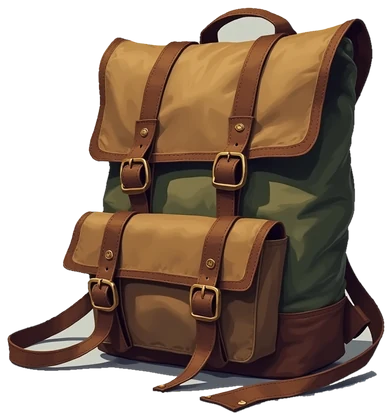
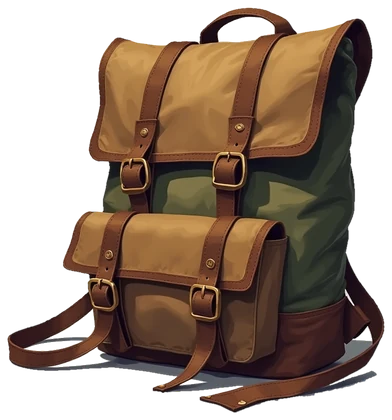
feat(depth-v2): diegetic placement for discovery props; fix pack cutout
Placement only - props, copy, timing, accumulation 0->N, reverse N->0 and
the group exit are unchanged.

- Village: notice on the fence, pack by the cart, field book on the
  grass, sealed letter dropped on the road.
- Forest: night growth left on the grass, strange bark right by the
  tree, fresh track on the path itself.
- Mine: ore sample left of the cart, pickaxe on the floor by the rails,
  the haul right of the cart, rare crystal right among the stones.
- Spirit Core (placed by what each prop actually looks like): the helmet
  (awakened-relic) on the pier, the ghost footprints (spirit-trace) on
  the water leading to the ship, the carved shard on top of the stele.
- Home: chest by the far fence, workshop kit by the house, seed pouch by
  the path, trophy hanging on the tree.
- Cluster underlays dropped: props are spread through the scene now, so
  a single patch under a group no longer has anything to ground.
- adventurer-pack: background left between the straps is removed
  (interior background regions the edge flood could not reach).

diff --git a/depth-v2/poc-discoveries.js b/depth-v2/poc-discoveries.js
@@ -46,20 +46,19 @@ export const BIOMES = {
   // деревня — физические следы живого мира; текст слева внизу, находки справа,
   // в небе над крышами и на траве, дорога и дома открыты
   village: {
-    k: 0, stretch: [3.2, 1.5], exit: 0.84, zone: [0.5, 0.985],
-    under: { x: 0.75, y: 0.945, w: 0.3, h: 0.15, rot: -2, tone: '18, 12, 5', op: 0.75 },
-    keep: [[0.3, 0.6, 0.55, 1]],
+    k: 0, stretch: [3.2, 1.5], exit: 0.84, zone: [0.28, 0.985],
+    keep: [[0.36, 0.22, 0.72, 0.58]],
     items: [
-      { id: 'sealed-letter', at: 0.30, x: 0.742, y: 0.925, h: 0.055, rot: -4, cap: 'left', z: 4,
+      { id: 'sealed-letter', at: 0.30, x: 0.415, y: 0.915, h: 0.058, rot: -4, cap: 'right', z: 4,
         en: ['Sealed letter', 'Messages move through the world without you.'],
         ru: ['Письмо', 'Сообщения идут по миру и без тебя.'] },
       { id: 'notice', at: 0.42, x: 0.845, y: 0.735, h: 0.115, rot: 1.5, cap: 'right', z: 1,
         en: ['Notice', 'Work appears whether a player is there to take it or not.'],
         ru: ['Объявление', 'Дела появляются независимо от того, рядом ли игрок.'] },
-      { id: 'adventurer-pack', at: 0.54, x: 0.722, y: 0.845, h: 0.155, rot: -1, cap: 'left', z: 2,
+      { id: 'adventurer-pack', at: 0.54, x: 0.62, y: 0.845, h: 0.14, rot: -1, cap: 'left', z: 2,
         en: ["Adventurer's pack", 'Others leave town, return with loot, and spend it.'],
         ru: ['Ранец авантюриста', 'Другие уходят за добычей, возвращаются и тратят её.'] },
-      { id: 'field-book', at: 0.66, x: 0.767, y: 0.9, h: 0.082, rot: 2, cap: 'right', z: 3,
+      { id: 'field-book', at: 0.66, x: 0.79, y: 0.9, h: 0.082, rot: 2, cap: 'left', z: 3,
         en: ['Field book', 'Knowledge is something you can carry.'],
         ru: ['Полевая книга', 'Знание здесь можно буквально носить с собой.'] },
     ],
@@ -67,36 +66,34 @@ export const BIOMES = {
   // лес — природные образцы и странности, не добыча; текст справа, находки
   // слева и снизу слева, центральная тропа открыта
   forest: {
-    k: 1, stretch: [2.8, 1.45], exit: 0.9, zone: [0.015, 0.45],
-    under: { x: 0.175, y: 0.955, w: 0.3, h: 0.15, rot: 2, tone: '6, 10, 6', op: 0.8 },
-    keep: [[0.4, 0.45, 0.62, 1]],
+    k: 1, stretch: [2.8, 1.45], exit: 0.9, zone: [0.015, 0.985],
+    keep: [[0.42, 0.1, 0.6, 0.45]],
     items: [
-      { id: 'strange-bark', at: 0.20, x: 0.115, y: 0.9, h: 0.1, rot: -2, cap: 'left', z: 1,
+      { id: 'strange-bark', at: 0.20, x: 0.74, y: 0.9, h: 0.095, rot: -2, cap: 'left', z: 2,
         en: ['Strange bark', 'Not every place worth finding is marked on a map.'],
         ru: ['Странная кора', 'Не каждое важное место отмечено на карте.'] },
-      { id: 'fresh-track', at: 0.38, x: 0.235, y: 0.925, h: 0.09, rot: 1, cap: 'right', z: 3,
+      { id: 'fresh-track', at: 0.38, x: 0.47, y: 0.94, h: 0.08, rot: 1, cap: 'right', z: 3,
         en: ['Fresh track', 'The farther from safety, the less predictable the wilds.'],
         ru: ['Свежий след', 'Чем дальше от безопасности, тем непредсказуемее дикая местность.'] },
-      { id: 'night-growth', at: 0.56, x: 0.155, y: 0.845, h: 0.155, rot: -1.5, cap: 'right', z: 2,
+      { id: 'night-growth', at: 0.56, x: 0.12, y: 0.86, h: 0.14, rot: -1.5, cap: 'right', z: 1,
         en: ['Night growth', 'Some things are easier to find after dark.'],
         ru: ['Ночная поросль', 'Некоторые вещи легче найти после наступления темноты.'] },
     ],
   },
   mine: {
-    k: 2, stretch: [3, 1.6], exit: 0.9, zone: [0.58, 0.955],
-    under: { x: 0.826, y: 0.888, w: 0.32, h: 0.16, rot: 0, tone: '20, 13, 6', op: 0.72 },
-    keep: [[0.46, 0.15, 0.715, 0.76], [0.52, 0.62, 0.68, 0.98]],
+    k: 2, stretch: [3, 1.6], exit: 0.9, zone: [0.3, 0.985],
+    keep: [[0.46, 0.15, 0.715, 0.6]],
     items: [
-      { id: 'ore-sample', at: 0.10, x: 0.748, y: 0.855, h: 0.11, rot: -2, cap: 'left', z: 3,
+      { id: 'ore-sample', at: 0.10, x: 0.465, y: 0.865, h: 0.1, rot: -2, cap: 'left', z: 1,
         en: ['Ore sample', 'Depth changes what the rock gives back.'],
         ru: ['Образец руды', 'С глубиной меняется то, что отдаёт порода.'] },
-      { id: 'mining-pickaxe', at: 0.26, x: 0.862, y: 0.7, h: 0.155, rot: 1.5, cap: 'right', z: 1,
+      { id: 'mining-pickaxe', at: 0.26, x: 0.625, y: 0.93, h: 0.105, rot: 1.5, cap: 'right', z: 2,
         en: ['Mining Pick', 'The right tool decides what you can bring back.'],
         ru: ['Кирка', 'От инструмента зависит, что ты сможешь унести наверх.'] },
-      { id: 'ore-cargo', at: 0.43, x: 0.818, y: 0.79, h: 0.185, rot: -1, cap: 'right', z: 2,
+      { id: 'ore-cargo', at: 0.43, x: 0.72, y: 0.86, h: 0.15, rot: -1, cap: 'right', z: 3,
         en: ['The haul', 'What you extract feeds crafting and trade.'],
         ru: ['Добыча', 'То, что вынесешь наверх, идёт в ремесло и торговлю.'] },
-      { id: 'deep-material', at: 0.60, x: 0.872, y: 0.868, h: 0.092, rot: 2, cap: 'right', z: 4,
+      { id: 'deep-material', at: 0.60, x: 0.865, y: 0.9, h: 0.088, rot: 2, cap: 'left', z: 4,
         en: ['Rare Crystal', 'Richer materials wait where the risk is higher.'],
         ru: ['Редкий кристалл', 'Чем ценнее находка, тем опаснее путь к ней.'] },
     ],
@@ -104,18 +101,17 @@ export const BIOMES = {
   // ядро мира мёртвых — не добыча, а свидетельства другого слоя; текст справа
   // внизу, находки по левому краю; корабль, след на воде, пирс и стела открыты
   core: {
-    k: 4, stretch: [2.5, 1.45], exit: 0.9, zone: [0.015, 0.45],
-    under: { x: 0.182, y: 0.965, w: 0.27, h: 0.1, rot: -2, tone: '5, 20, 24', op: 0.45 },
+    k: 4, stretch: [2.5, 1.45], exit: 0.9, zone: [0.015, 0.985],
     props: 'saturate(.72) brightness(.86)',
-    keep: [[0.42, 0.3, 0.82, 0.56], [0.44, 0.5, 0.8, 1]],
+    keep: [[0.39, 0.4, 0.7, 0.555]],
     items: [
-      { id: 'spirit-trace', at: 0.18, x: 0.112, y: 0.862, h: 0.105, rot: -1, cap: 'right', spectral: true, z: 1,
+      { id: 'spirit-trace', at: 0.18, x: 0.5, y: 0.655, h: 0.1, rot: -1, cap: 'right', spectral: true, z: 1,
         en: ['Spirit trace', 'The dead see paths the living leave behind.'],
         ru: ['След духа', 'Мёртвые видят пути, оставленные живыми.'] },
-      { id: 'awakened-relic', at: 0.36, x: 0.155, y: 0.925, h: 0.115, rot: 1.5, cap: 'right', z: 2,
+      { id: 'awakened-relic', at: 0.36, x: 0.78, y: 0.88, h: 0.1, rot: 1.5, cap: 'left', z: 2,
         en: ['Awakened relic', 'Some things reveal what they are only after death.'],
         ru: ['Пробуждённая реликвия', 'Некоторые вещи раскрывают себя только после смерти.'] },
-      { id: 'spiral-shard', at: 0.54, x: 0.228, y: 0.932, h: 0.095, rot: -2, cap: 'right', z: 3,
+      { id: 'spiral-shard', at: 0.54, x: 0.412, y: 0.6, h: 0.07, rot: -2, cap: 'right', z: 3,
         en: ['Spiral shard', 'The same world reveals another layer.'],
         ru: ['Осколок спирали', 'Тот же мир открывает другой слой.'] },
     ],
@@ -123,20 +119,19 @@ export const BIOMES = {
   // дом — то, что остаётся; тихо по краям, дом и окна — главный финал;
   // коллекция остаётся до конца маршрута
   home: {
-    k: 5, stretch: [2, 2], exit: null, zone: [0.55, 0.96],
-    under: { x: 0.822, y: 0.882, w: 0.28, h: 0.15, rot: 2, tone: '8, 9, 7', op: 0.7 },
-    keep: [[0.4, 0.15, 0.78, 0.6], [0.42, 0.62, 0.62, 1]],
+    k: 5, stretch: [2, 2], exit: null, zone: [0.02, 0.985],
+    keep: [[0.5, 0.25, 0.75, 0.55]],
     items: [
-      { id: 'storage-chest', at: 0.15, x: 0.828, y: 0.79, h: 0.125, rot: -1.5, cap: 'left', z: 2,
+      { id: 'storage-chest', at: 0.15, x: 0.335, y: 0.655, h: 0.085, rot: -1.5, cap: 'right', z: 1,
         en: ['Storage', 'What you bring home stays yours.'],
         ru: ['Хранилище', 'То, что ты принёс домой, остаётся твоим.'] },
-      { id: 'workshop-kit', at: 0.3, x: 0.762, y: 0.845, h: 0.1, rot: 1, cap: 'left', z: 3,
+      { id: 'workshop-kit', at: 0.3, x: 0.665, y: 0.68, h: 0.09, rot: 1, cap: 'right', z: 2,
         en: ['Workshop', 'Craft without leaving your own space.'],
         ru: ['Мастерская', 'Создавай вещи, не покидая своего пространства.'] },
-      { id: 'trophy', at: 0.45, x: 0.862, y: 0.68, h: 0.105, rot: -1, cap: 'right', z: 1,
+      { id: 'trophy', at: 0.45, x: 0.125, y: 0.42, h: 0.1, rot: -1, cap: 'right', z: 4,
         en: ['Trophy', 'Bring pieces of your journey back with you.'],
         ru: ['Трофей', 'Возвращайся домой с памятью о пройденном пути.'] },
-      { id: 'seed-pouch', at: 0.6, x: 0.885, y: 0.872, h: 0.075, rot: 2, cap: 'right', z: 4,
+      { id: 'seed-pouch', at: 0.6, x: 0.53, y: 0.9, h: 0.07, rot: 2, cap: 'right', z: 3,
         en: ['Grow', 'Your home can produce more than storage.'],
         ru: ['Выращивай', 'Дом — это больше, чем просто склад.'] },
     ],
@@ -195,11 +190,13 @@ export function mountDiscoveries(parent, { only = null, stretch = null } = {}) {
   const biomes = Object.entries(BIOMES).filter(([name, b]) => (!only || only.includes(name)) && b.items.length);
 
   const finds = [];
+  const groups = [];
   const unders = [];
   const stretchBy = {};
   for (const [name, b] of biomes) {
     const s = name === 'mine' && Number(stretch) > 0 ? [Number(stretch), b.stretch[1]] : b.stretch;
     stretchBy[b.k] = s;
+    groups.push(b);
     if (b.under) {
       const u = document.createElement('div');
       u.className = 'poc-under';
@@ -269,8 +266,8 @@ export function mountDiscoveries(parent, { only = null, stretch = null } = {}) {
     }
     // подпись показывает только последняя найденная вещь биома
     let changed = false;
-    for (const u of unders) {
-      const on = finds.filter((f) => f.b === u.b && f.on);
+    for (const b of groups) {
+      const on = finds.filter((f) => f.b === b && f.on);
       for (const f of on) {
         const isNew = f === on[on.length - 1];
         if (f.fig.classList.contains('is-new') !== isNew) { f.fig.classList.toggle('is-new', isNew); changed = true; }
